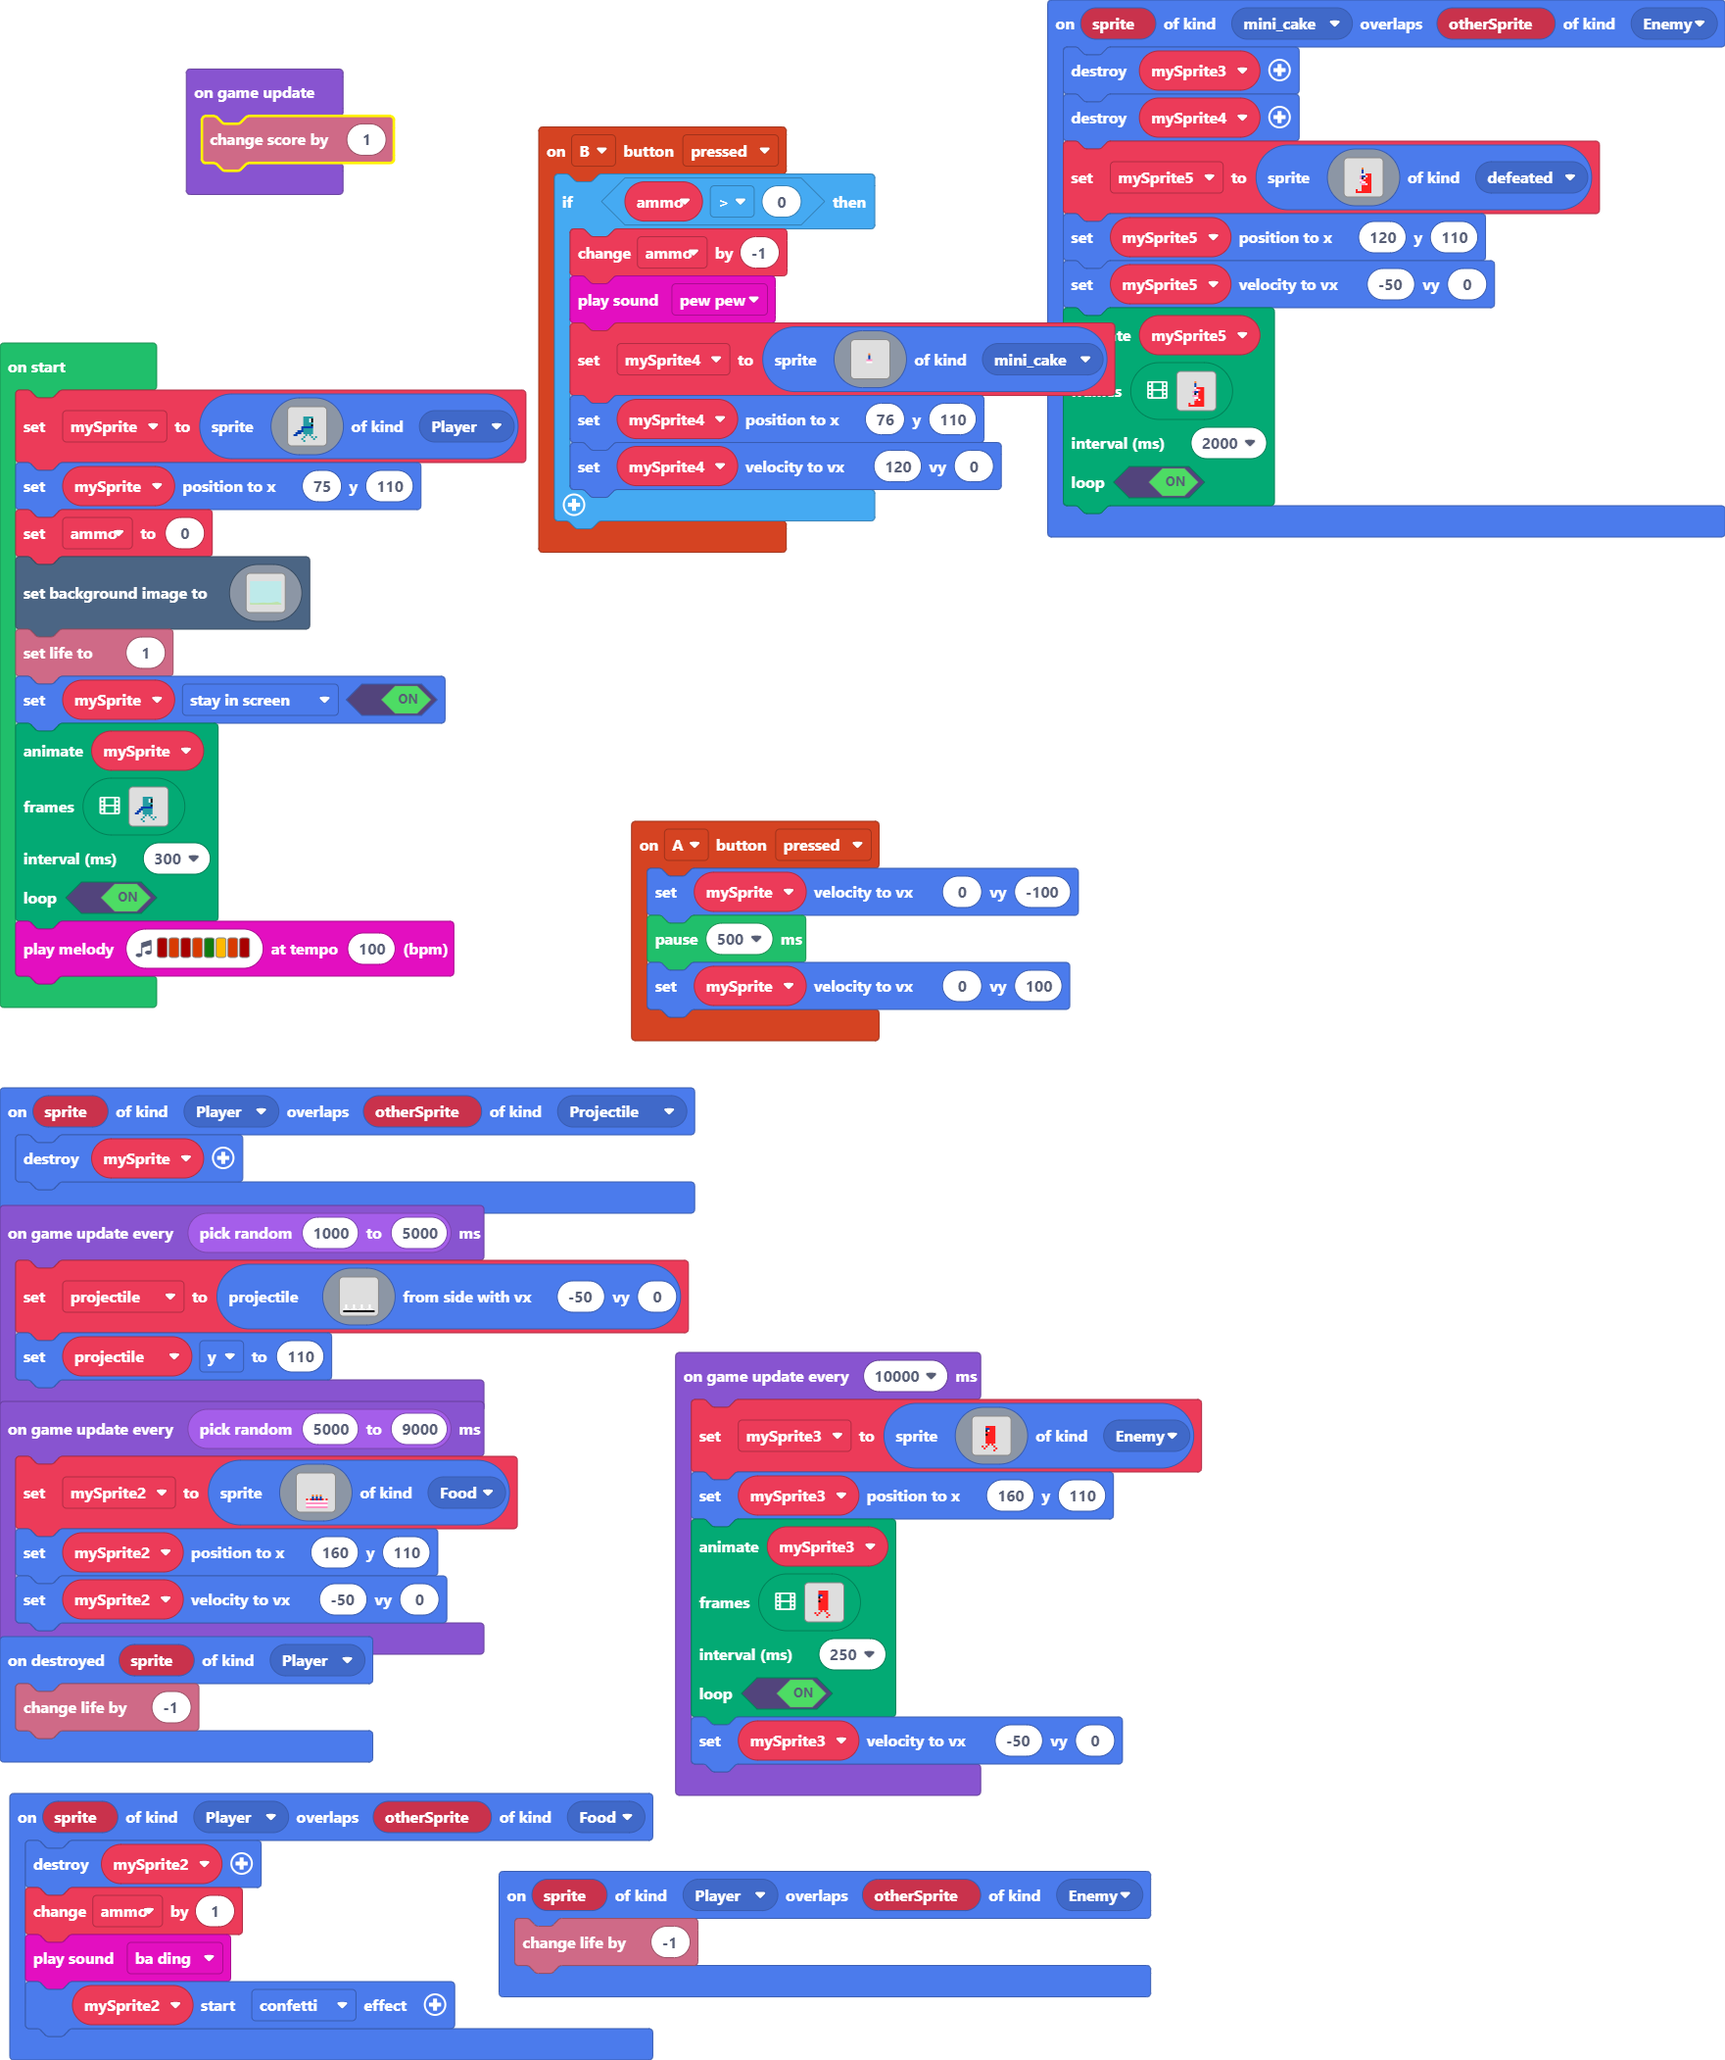
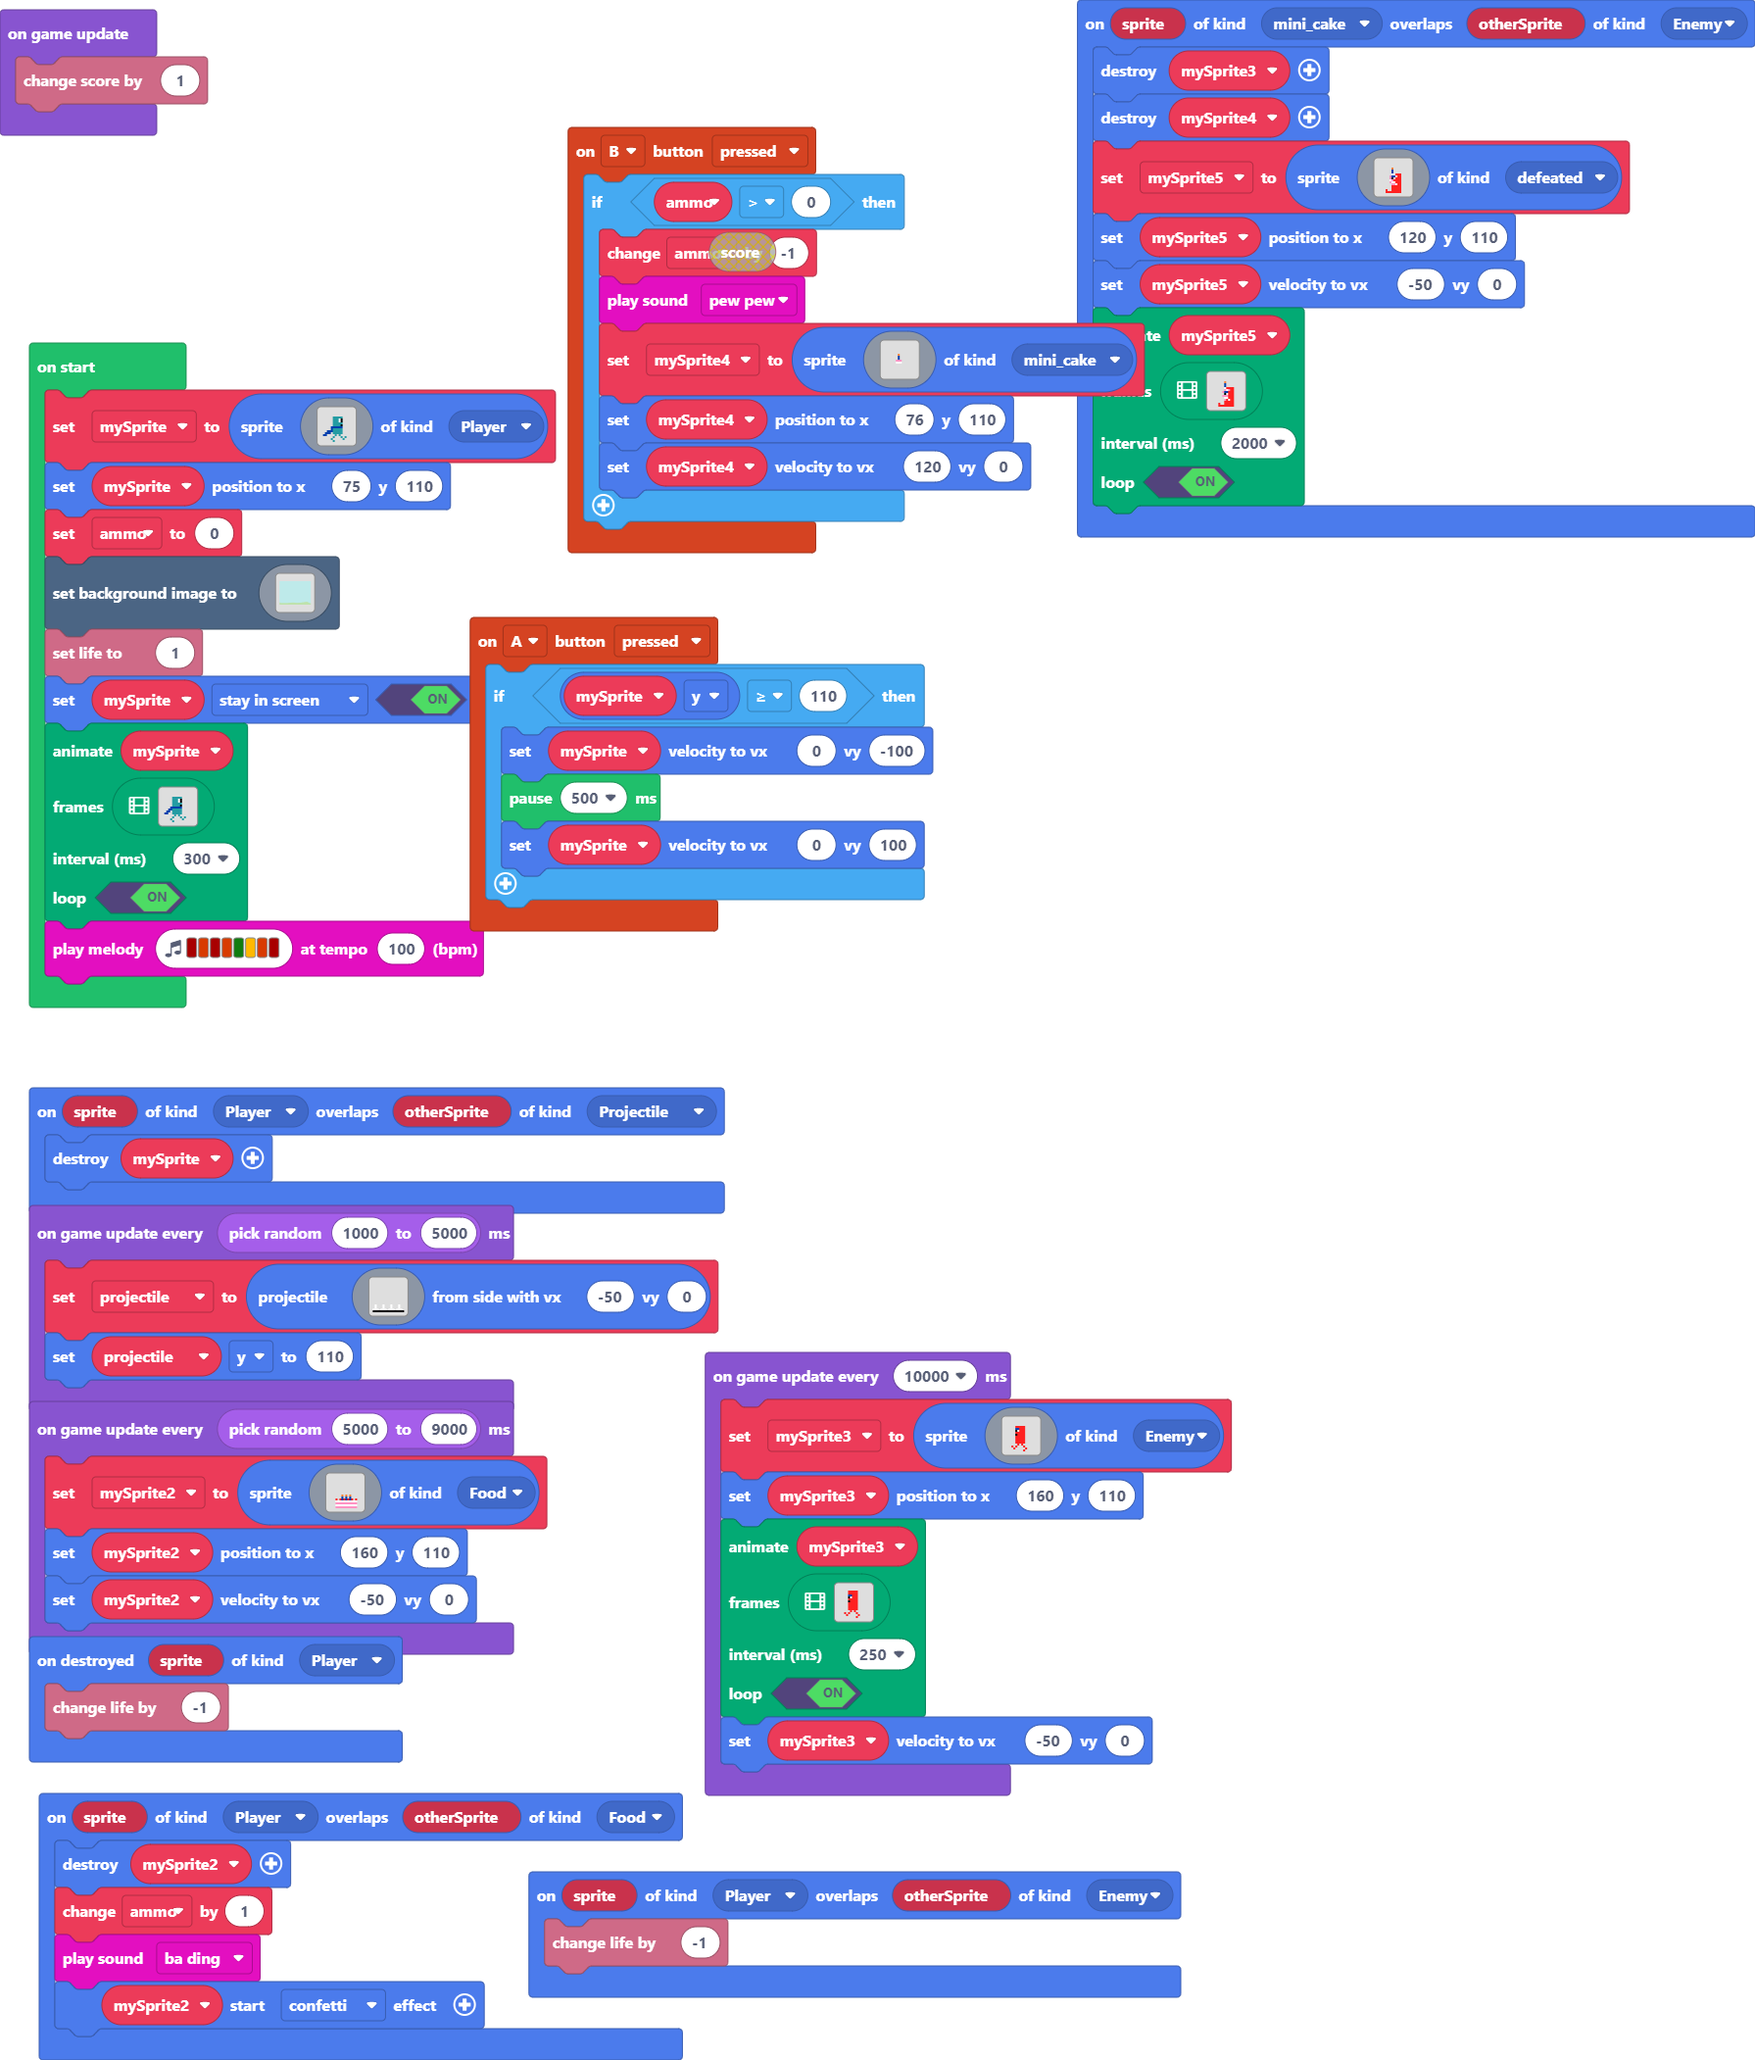
can't jump if not grounded

diff --git a/main.ts b/main.ts
@@ -30,9 +30,11 @@ controller.B.onEvent(ControllerButtonEvent.Pressed, function () {
     }
 })
 controller.A.onEvent(ControllerButtonEvent.Pressed, function () {
-    mySprite.setVelocity(0, -100)
-    pause(500)
-    mySprite.setVelocity(0, 100)
+    if (mySprite.y >= 110) {
+        mySprite.setVelocity(0, -100)
+        pause(500)
+        mySprite.setVelocity(0, 100)
+    }
 })
 sprites.onOverlap(SpriteKind.Player, SpriteKind.Projectile, function (sprite, otherSprite) {
     mySprite.destroy()
